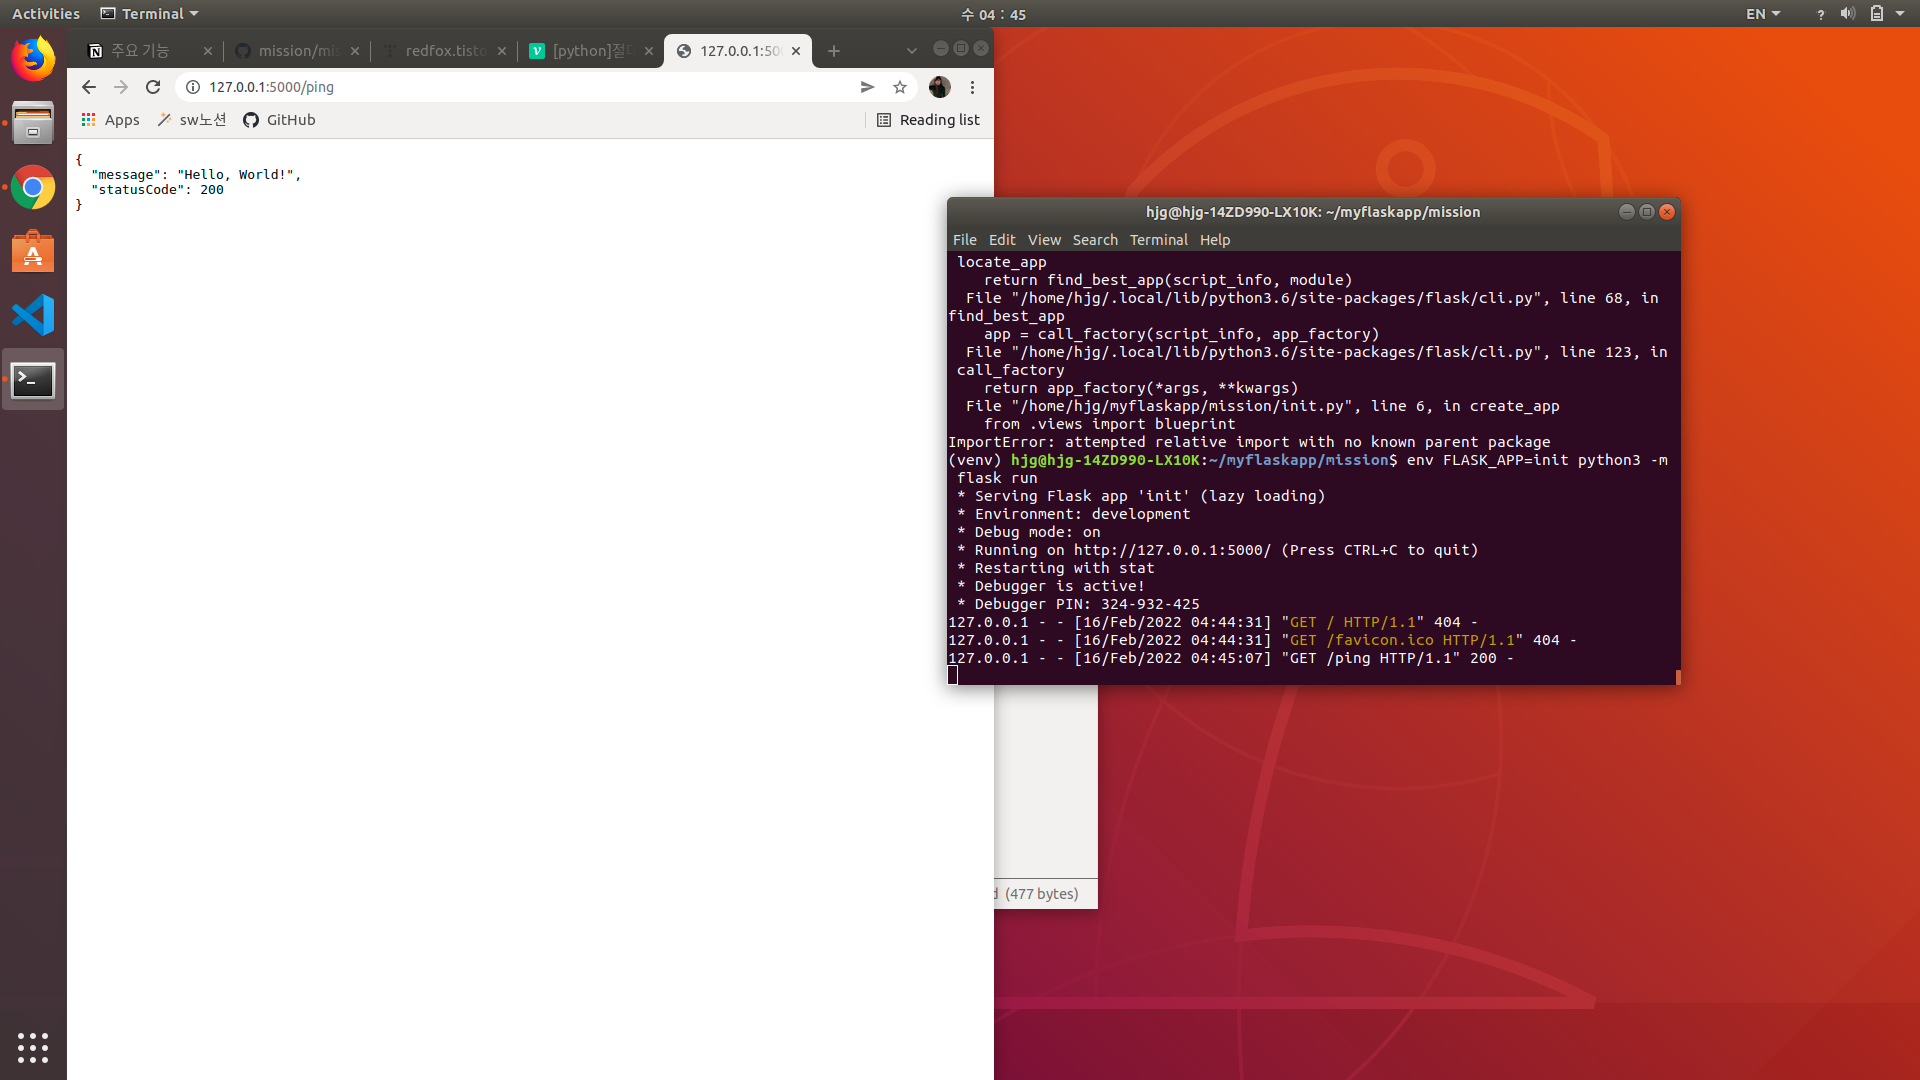
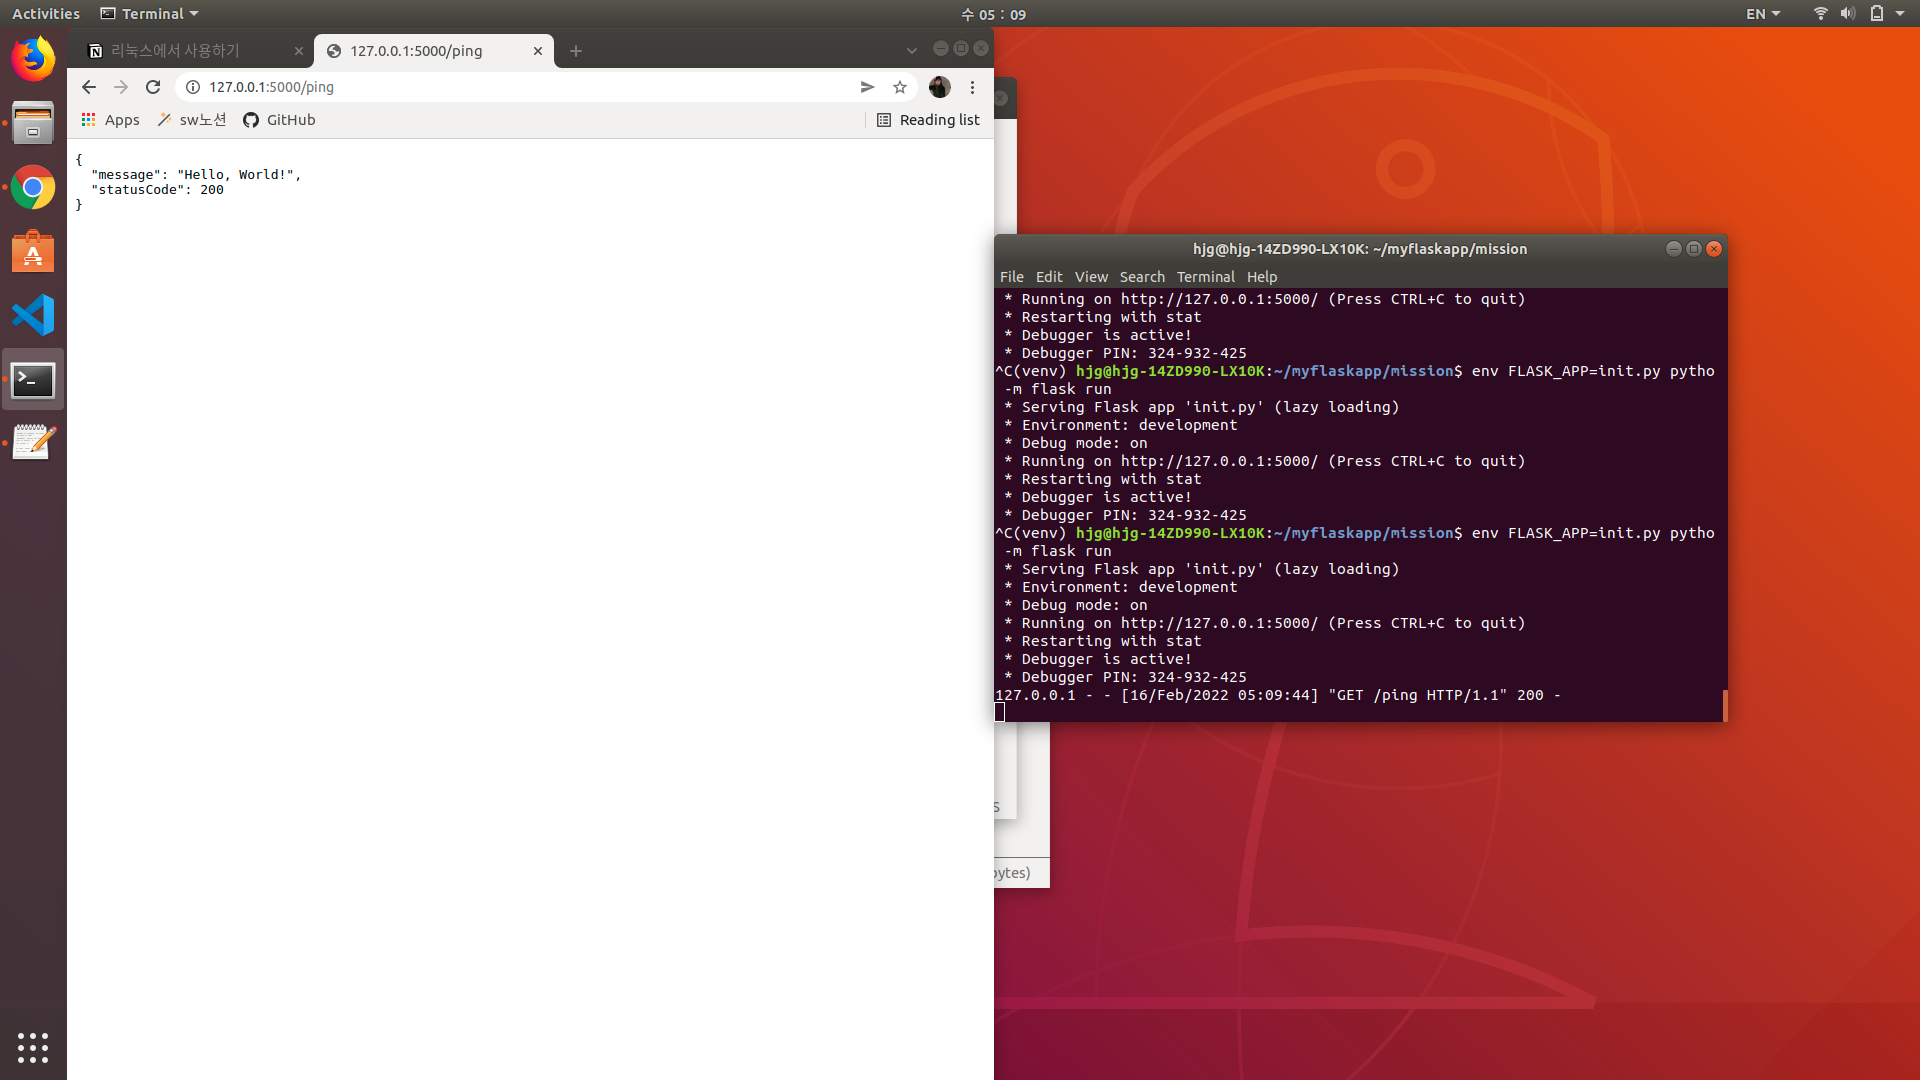
flask server REV.1

diff --git a/mission/init.py b/mission/init.py
@@ -3,7 +3,7 @@ from flask import Flask
 def create_app():
     app = Flask(__name__)
 
-    import blueprint
+    from views import blueprint
     app.register_blueprint(blueprint.bp)
 
     return app
